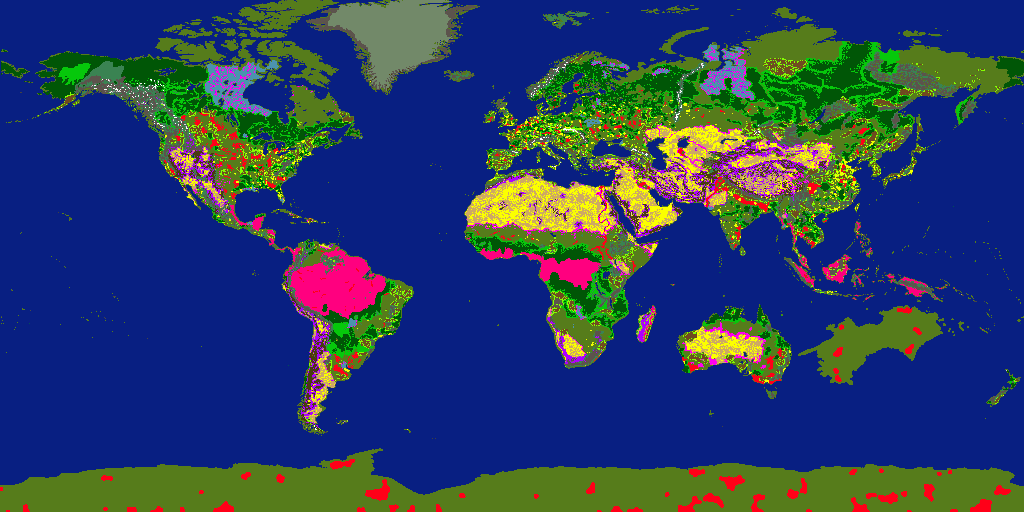
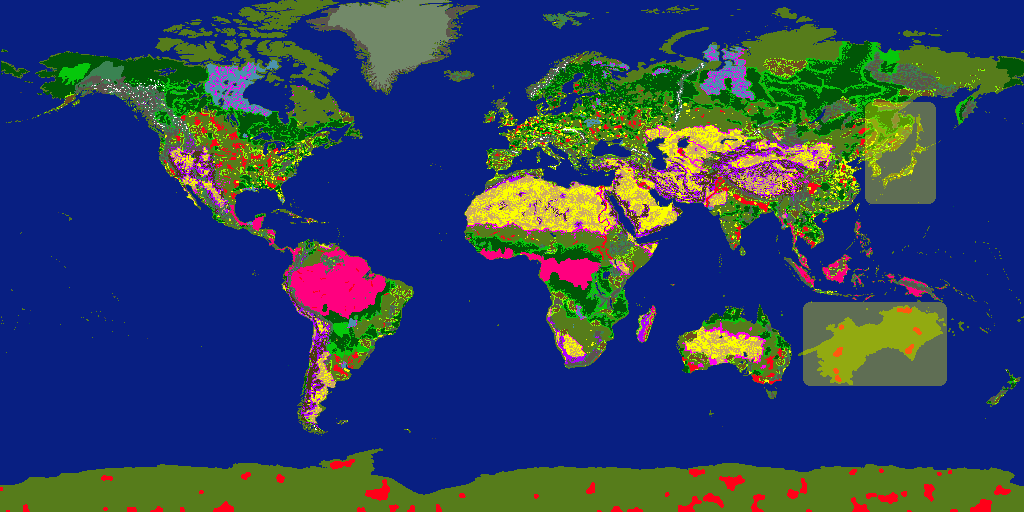
Protect intentional baka-map distortions; confirm poles reach +-90
Per the map author:
- Australia and Japan/Korea/Shikoku are intentional design ("仕様"), not
  errors, so they are added to protect.csv -- the warp leaves them as drawn
  instead of pulling them toward real geography.
- Both poles reach the actual pole points (+90 top row, -90 bottom row);
  noted in bands.csv. The ~-60/-65 seam is the world/Antarctica join.

With these protected, the residual land/sea disagreement is 7.2% (the extra
vs 6.5% is the intended distortion we now correctly preserve).

Changed region(s): [[0.7812, 0.5625, 0.9375, 0.7812], [0.8438, 0.1875, 0.9375, 0.4062]]

diff --git a/tools/mapfix/README.md b/tools/mapfix/README.md
@@ -62,6 +62,15 @@ fictional_island,0.40,0.30,0.46,0.36
 
 PNGマスク（白=保護）でも指定可：`--protect-mask mask.png`
 
+既定で保護済み（作者により「仕様」と明言された意図的デザイン）：
+
+| 領域 | 内容 |
+|---|---|
+| `australia` | オーストラリア（実地理と異なる意図的な形）|
+| `japan_korea_shikoku` | 日本・韓国・四国（東アジア諸島）|
+
+これらは実地理へ寄せず、描かれたまま保持する。他にも仕様の歪みがあれば同様に追記する。
+
 ### 制御点 `gcps.csv`（大きなズレを手当て）
 
 「この**現在地(src)** に描かれている地形は、本当は**この位置(dst)** にある」という対応点を与えると、その点付近だけを局所的に（ガウス減衰、既定半径=フレーム幅の6%）動かす。遠方には影響しない安全設計。
